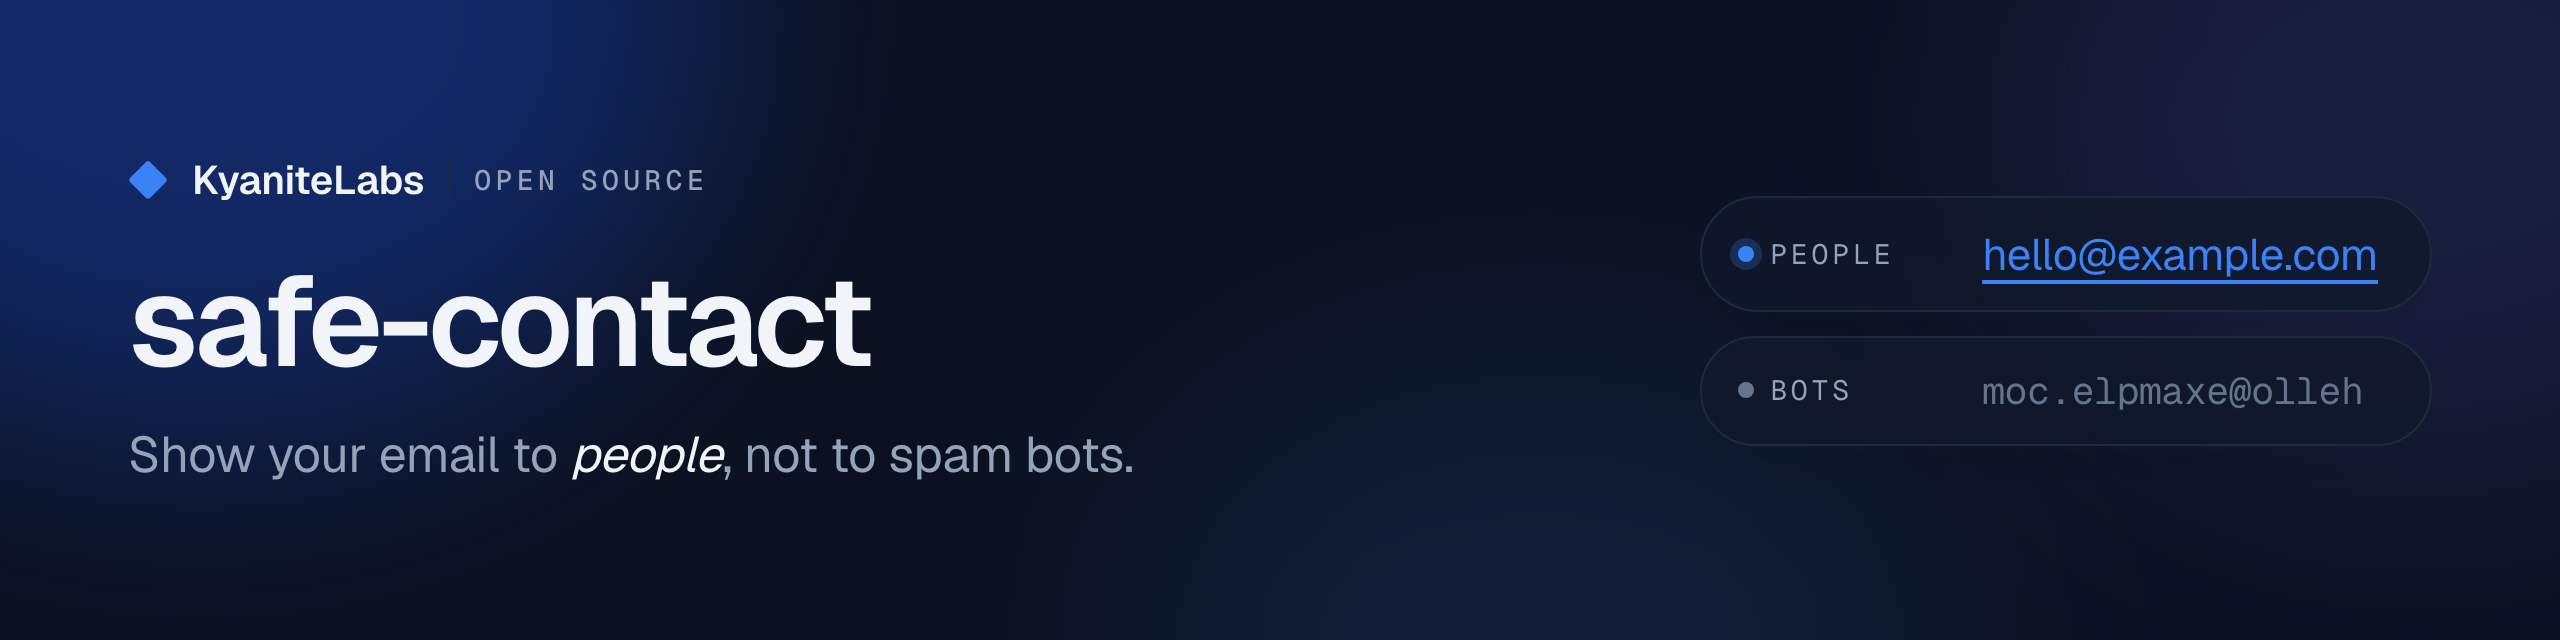
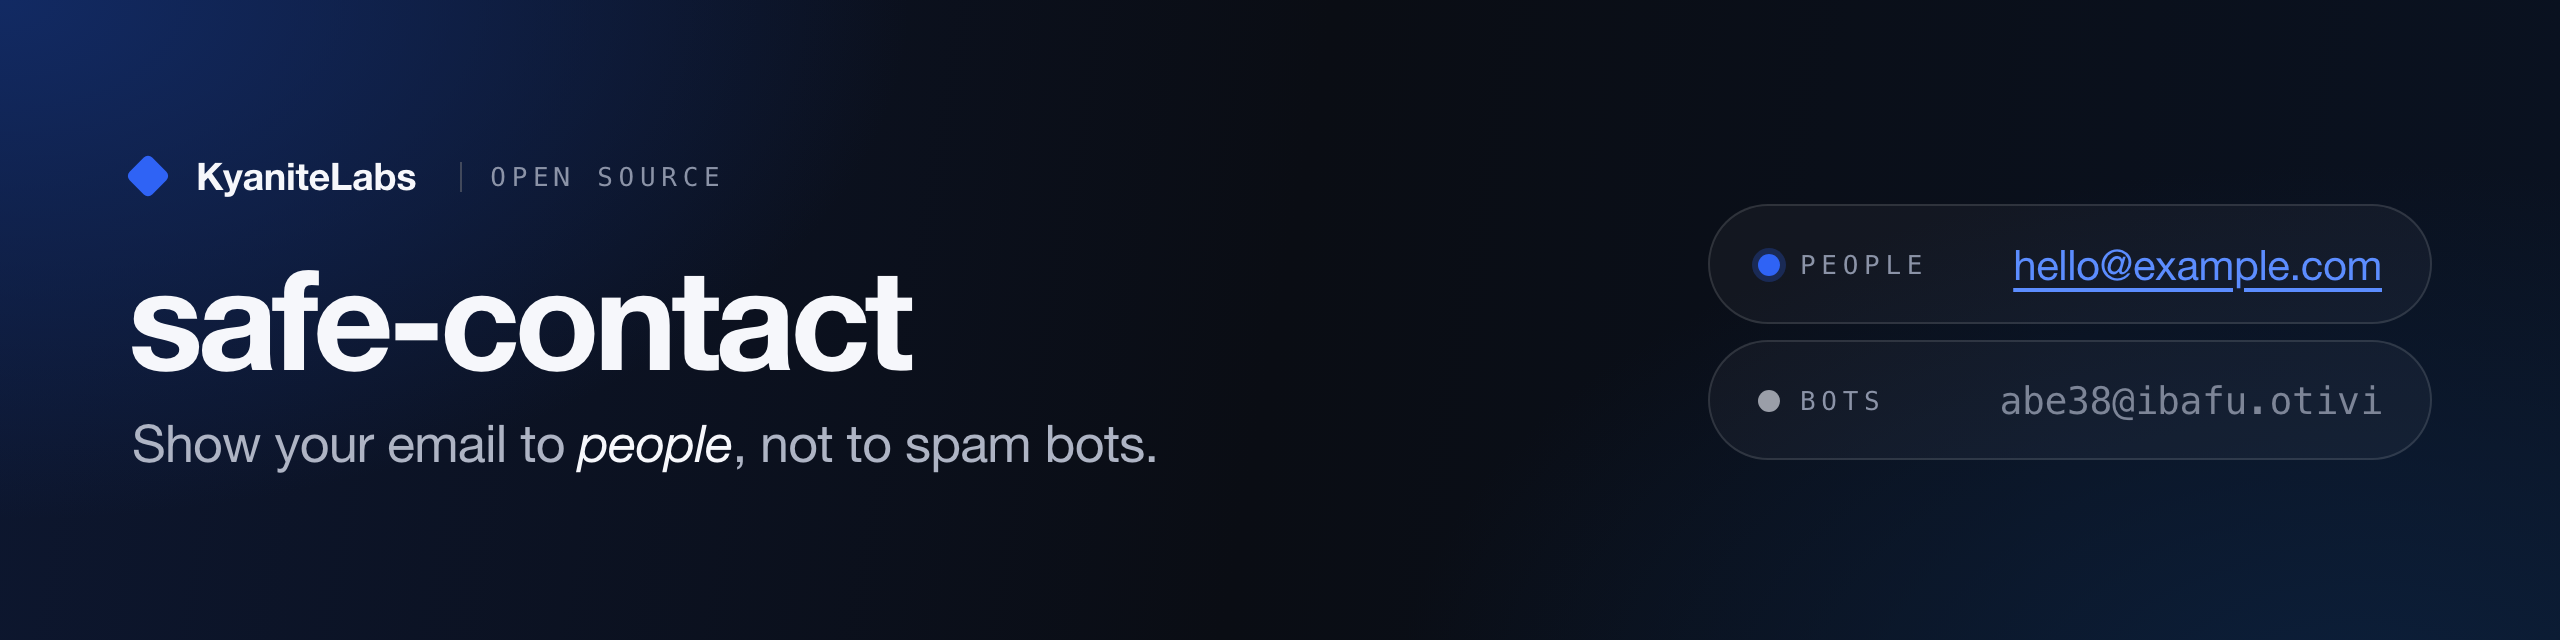
Decoys instead of reversed text: the page shows a made-up address or +0 number until the reveal
- decoy(): random user name, domain and made-up TLD for emails; random digits
  after +0 for phone numbers. Seeded by the contact, so server and client
  render alike; same length as the real text, so nothing moves on reveal.
- render() and <SafeContact> show it in <span aria-hidden>; reveal() replaces
  any aria-hidden child, so 0.1 HTML keeps working with the latest auto.js.
- README, demo page, tests and banner updated.

diff --git a/src/contact.ts b/src/contact.ts
@@ -1,7 +1,8 @@
 // The contact model, shared by every environment: build a Contact with
 // mailto(), tel() or sms(); scramble it with encode() for the page; get it back
-// with decode(). Also hiddenAttributes(), the markup rule both renderers follow,
-// so the HTML string renderer and the React component cannot drift apart.
+// with decode(). Also the two markup rules both renderers follow, so the HTML
+// string renderer and the React component cannot drift apart: hiddenAttributes()
+// and decoy(), the made-up address the page shows until the reveal.
 
 /** What a link shows and where it goes. Build one with mailto(), tel() or sms(). */
 export interface Contact {
@@ -77,8 +78,96 @@ export function decode(data: string): Contact | null {
 }
 
 /** Reverses a string by code point, so emoji and accents survive. */
-export function reverse(text: string): string {
+function reverse(text: string): string {
   return Array.from(text).reverse().join("");
+}
+
+/**
+ * What the page shows in place of the contact until the reveal: a made-up
+ * address or number that reads like one but cannot be delivered. A harvester
+ * that takes it gets junk. For an email it is a random user name (one or two
+ * parts, sometimes digits), a random domain and a made-up top-level domain; for
+ * a phone number, random digits after "+0", a country code that does not exist.
+ *
+ * It is derived from the contact, so the same contact always gets the same
+ * decoy: server and client render alike, and builds are reproducible. It has
+ * the length of the real text, so nothing moves when the link is revealed.
+ */
+export function decoy({ text, href }: Contact): string {
+  const next = random(seed(`${text}\n${href}`));
+  return href.startsWith("mailto:") ? fakeAddress(text, next) : fakeNumber(text, next);
+}
+
+const CONSONANTS = "bcdfghjklmnprstvwz";
+const VOWELS = "aeiou";
+
+type Next = () => number;
+
+const between = (next: Next, min: number, max: number) => min + Math.floor(next() * (max - min + 1));
+const pick = (next: Next, from: string) => from[between(next, 0, from.length - 1)]!;
+const digit = (next: Next) => String(between(next, 0, 9));
+const clamp = (n: number, min: number, max: number) => Math.min(Math.max(n, min), max);
+
+/** Pronounceable: consonants and vowels in turn, e.g. "kovari" or "abeno". */
+function word(length: number, next: Next): string {
+  let vowel = next() < 0.5;
+  let out = "";
+  for (let i = 0; i < length; i++, vowel = !vowel) out += pick(next, vowel ? VOWELS : CONSONANTS);
+  return out;
+}
+
+/** Two words joined by `separator`, each at least `min` letters long, the first at most 8. */
+function pair(length: number, min: number, separator: string, next: Next): string {
+  const first = between(next, min, Math.min(8, length - min - 1));
+  return `${word(first, next)}${separator}${word(length - first - 1, next)}`;
+}
+
+/** e.g. "ren.olav42@sivome.kuzda", as long as the real address. */
+function fakeAddress(address: string, next: Next): string {
+  const at = address.indexOf("@");
+  const user = fakeUser(at < 0 ? address.length : at, next);
+  const domain = fakeDomain(at < 0 ? 0 : address.length - at - 1, next);
+  return `${user}@${domain}`;
+}
+
+function fakeUser(length: number, next: Next): string {
+  length = clamp(length, 2, 40);
+  const digits = length >= 5 && next() < 0.4 ? between(next, 1, 2) : 0;
+  const letters = length - digits;
+  let user = letters >= 9 || (letters >= 6 && next() < 0.5) ? pair(letters, 2, pick(next, "._-"), next) : word(letters, next);
+  for (let i = 0; i < digits; i++) user += digit(next);
+  return user;
+}
+
+/** A name and a top-level domain of 4 to 6 letters: long enough to be nobody's. */
+function fakeDomain(length: number, next: Next): string {
+  length = clamp(length, 8, 60);
+  const tld = between(next, 4, Math.min(6, length - 4));
+  const name = length - tld - 1;
+  return `${name >= 11 || (name >= 8 && next() < 0.5) ? pair(name, 3, "-", next) : word(name, next)}.${word(tld, next)}`;
+}
+
+/** The number as written, every digit random, after "+0": no country code starts with 0. */
+function fakeNumber(number: string, next: Next): string {
+  let first = true;
+  return `+${number.replace(/^\+/, "").replace(/\d/g, () => (first ? ((first = false), "0") : digit(next)))}`;
+}
+
+/** FNV-1a, a 32-bit hash of the text. */
+function seed(text: string): number {
+  let hash = 0x811c9dc5;
+  for (let i = 0; i < text.length; i++) hash = Math.imul(hash ^ text.charCodeAt(i), 0x01000193);
+  return hash >>> 0;
+}
+
+/** mulberry32: numbers in [0, 1) that are the same for the same seed everywhere. */
+function random(state: number): Next {
+  return () => {
+    state = (state + 0x6d2b79f5) | 0;
+    let t = Math.imul(state ^ (state >>> 15), state | 1);
+    t ^= t + Math.imul(t ^ (t >>> 7), t | 61);
+    return ((t ^ (t >>> 14)) >>> 0) / 4294967296;
+  };
 }
 
 /**

diff --git a/test/core.test.ts b/test/core.test.ts
@@ -1,5 +1,6 @@
 import { describe, expect, test } from "vitest";
 import { decode, encode, mailto, render, sms, tel } from "../src/index.js";
+import { decoy } from "../src/contact.js";
 import { blankData, dataOf } from "./helpers.js";
 
 const ADDRESS = "hello@example.com";
@@ -60,28 +61,61 @@ describe("encode and decode", () => {
   });
 });
 
+describe("decoy", () => {
+  // A made-up address that reads like one: user@name.tld, letters, digits and
+  // one of . _ - in the user part, a hyphen at most in the name, a top-level
+  // domain of 4 to 6 letters that is nobody's.
+  const FAKE_ADDRESS = /^[a-z0-9]+(?:[._-][a-z0-9]+)?@[a-z]+(?:-[a-z]+)?\.[a-z]{4,6}$/;
+
+  test("an email decoy looks like an address, is not the real one, and is as long as it", () => {
+    for (const address of [ADDRESS, "a@b.co", "first.last@sub.company-name.co.uk", "jean-pierre_dupont99@universite-paris.fr"]) {
+      const fake = decoy(mailto(address));
+      expect(fake, address).toMatch(FAKE_ADDRESS);
+      expect(fake, address).not.toBe(address);
+      expect(fake.split("@")[0], address).not.toBe(address.split("@")[0]);
+      expect(fake.split("@")[1], address).not.toBe(address.split("@")[1]);
+      if (address.split("@")[1]!.length >= 8) expect(fake.length, address).toBe(address.length);
+    }
+  });
+
+  test("a phone decoy keeps the shape and has random digits after +0, a country code nobody has", () => {
+    expect(decoy(tel("+39 012 345 6789"))).toMatch(/^\+0\d \d{3} \d{3} \d{4}$/);
+    expect(decoy(tel("+39 012 345 6789"))).not.toBe("+39 012 345 6789");
+    expect(decoy(sms("0123 456", "Hi"))).toMatch(/^\+0\d{3} \d{3}$/);
+  });
+
+  test("the same contact always gets the same decoy; different contacts get different ones", () => {
+    expect(decoy(mailto(ADDRESS))).toBe(decoy(mailto(ADDRESS)));
+    expect(decoy(mailto(ADDRESS))).not.toBe(decoy(mailto("hallo@example.com")));
+    expect(decoy(mailto(ADDRESS))).not.toBe(decoy(mailto(ADDRESS, { subject: "Hi" })));
+  });
+});
+
 describe("render", () => {
-  test("no address in the HTML: a placeholder href, the scrambled value, the text backwards", () => {
+  test("no address in the HTML: a placeholder href, the scrambled value, a made-up address", () => {
     const contact = mailto(ADDRESS, { subject: "Hello" });
     const html = render(contact);
     expect(blankData(html)).toBe(`<a href="#" data-safe-contact="" aria-label="Email address, activate to show">` +
-      `<bdo dir="rtl" aria-hidden="true">${backwards(ADDRESS)}</bdo></a>`);
+      `<span aria-hidden="true">${decoy(contact)}</span></a>`);
     expect(decode(dataOf(html))).toEqual(contact);
     expect(html).not.toContain(ADDRESS);
+    expect(html).not.toContain(backwards(ADDRESS));
+    expect(html).not.toContain("example");
     expect(html).not.toContain("mailto:");
   });
 
   test("phone links get the phone hint, or your own", () => {
     expect(render(tel("+39 012 345 6789"))).toContain('aria-label="Phone number, activate to show"');
     expect(render(sms("+39 012"), { hint: "Numero di telefono" })).toContain('aria-label="Numero di telefono"');
-    expect(render(tel("+39 012 345 6789"))).toContain(">9876 543 210 93+</bdo>");
+    expect(render(tel("+39 012 345 6789"))).toMatch(/<span aria-hidden="true">\+0\d \d{3} \d{3} \d{4}<\/span>/);
+    expect(render(tel("+39 012 345 6789"))).not.toMatch(/345 ?6789|0123456789/);
   });
 
-  test("a label replaces the backwards text and the hint; everything is escaped", () => {
+  test("a label replaces the decoy and the hint; everything is escaped", () => {
     const html = render(mailto(ADDRESS), { label: `<b>"Email" us</b>`, className: `x" onclick="y` });
     expect(html).toContain(">&#60;b&#62;&#34;Email&#34; us&#60;/b&#62;</a>");
     expect(html).toMatch(/^<a class="x&#34; onclick=&#34;y" href="#"/);
     expect(html).not.toContain("aria-label");
-    expect(html).not.toContain("<bdo");
+    expect(html).not.toContain("<span");
   });
 });

diff --git a/demo/index.html b/demo/index.html
@@ -26,7 +26,7 @@
       <dt>Text message</dt><dd><!--sms--></dd>
     </dl>
     <p class="status" aria-live="polite">Hidden links on this page: <strong id="count"></strong>. Hover one and watch it drop.</p>
-    <p class="proof">Now open View Source (<kbd>Ctrl</kbd>+<kbd>U</kbd>, or <kbd>⌘</kbd><kbd>⌥</kbd><kbd>U</kbd> on a Mac) and search for <code>&#64;example</code><!-- an entity, so this instruction is not itself a match -->. It isn't there. Neither is the phone number.</p>
+    <p class="proof">Now open View Source (<kbd>Ctrl</kbd>+<kbd>U</kbd>, or <kbd>⌘</kbd><kbd>⌥</kbd><kbd>U</kbd> on a Mac) and search for <code>&#64;example</code><!-- an entity, so this instruction is not itself a match -->. It isn't there. Neither is the phone number. What is there is a made-up address that goes nowhere.</p>
   </section>
 
   <section aria-labelledby="use">
@@ -51,9 +51,9 @@
   <section aria-labelledby="how">
     <h2 id="how">How it works</h2>
     <ol>
-      <li>The address is written backwards inside <code>&lt;bdo dir="rtl"&gt;</code>. The browser draws it the right way round, so people read it normally, but the page text is backwards.</li>
+      <li>The page holds a decoy in place of the address: a made-up user name, domain and top-level domain that reads like an address but cannot be delivered. For a phone number it is random digits after <code>+0</code>, a country code that does not exist. A bot that harvests the page gets junk.</li>
       <li>The real link is kept scrambled in a <code>data-safe-contact</code> attribute. Its <code>href</code> is just <code>#</code>: no <code>mailto:</code> link for a bot to follow, but it looks and behaves like any other link.</li>
-      <li>When someone hovers, focuses, taps or clicks, it becomes a real link, just before the click lands. One click opens the mail app.</li>
+      <li>When someone hovers, focuses, taps or clicks, the decoy becomes the real address and the link a real one, just before the click lands. One click opens the mail app.</li>
     </ol>
     <p>Screen readers hear “Email address, activate to show” until the link is focused. The browser script is under 1&nbsp;KB and needs no CSS.</p>
     <p class="note">No trick stops a bot that is built to beat it. Most harvesters just read the HTML, some run the page in a browser, and very few hover over links. This stops all but the last kind.</p>

diff --git a/e2e/safe-contact.spec.ts b/e2e/safe-contact.spec.ts
@@ -18,25 +18,19 @@ for (const path of ["/", "/react.html"]) {
       const scripts = await page.locator("script[src]").evaluateAll((els) => els.map((el) => (el as HTMLScriptElement).src));
       const sources = [html, ...(await Promise.all(scripts.map(async (src) => (await request.get(src)).text())))];
       const rendered = [await page.content(), await page.locator("body").innerText()];
-      // The backwards text (moc.elpmaxe@olleh) is meant to be there.
+      // The decoys (a made-up address and a +0 number) are meant to be there.
       for (const text of [...sources, ...rendered]) {
         expect(text).not.toMatch(/example\.com|mailto:hello|tel:\+39|sms:\+39/);
         expect(text).not.toMatch(/345 ?6789|0123456789/);
       }
     });
 
-    test("the backwards text is drawn the right way round", async ({ page }) => {
-      const positions = await page.locator("main dd bdo").first().evaluate((bdo) => {
-        const text = bdo.firstChild!;
-        return Array.from({ length: text.textContent!.length }, (_, i) => {
-          const range = document.createRange();
-          range.setStart(text, i);
-          range.setEnd(text, i + 1);
-          return range.getBoundingClientRect().left;
-        });
-      });
-      // The last character in the page text is drawn first, on the left.
-      for (let i = 1; i < positions.length; i++) expect(positions[i]).toBeLessThan(positions[i - 1]!);
+    test("until the reveal, the links show a made-up address and a made-up number", async ({ page }) => {
+      const email = await hiddenLinks(page).first().innerText();
+      expect(email).toMatch(/^[a-z0-9._-]+@[a-z-]+\.[a-z]{4,6}$/);
+      expect(email).not.toBe(EMAIL);
+      expect(email.length).toBe(EMAIL.length);
+      expect(await hiddenLinks(page).nth(2).innerText()).toMatch(/^\+0\d \d{3} \d{3} \d{4}$/);
     });
 
     test("hover reveals a real mailto: link with the address", async ({ page }) => {

diff --git a/src/html.ts b/src/html.ts
@@ -1,7 +1,7 @@
 // A hidden link as an HTML string, for servers, static-site builds, templates
 // and the CLI. The browser side is dom.ts (or the drop-in auto.js).
 
-import { encode, hiddenAttributes, reverse, type Contact } from "./contact.js";
+import { decoy, encode, hiddenAttributes, type Contact } from "./contact.js";
 
 export interface RenderOptions {
   /** Text to show instead of the address, e.g. "Email us". Escaped. */
@@ -15,9 +15,8 @@ export interface RenderOptions {
 const escapeHtml = (text: string) => text.replace(/[&<>"']/g, (c) => `&#${c.charCodeAt(0)};`);
 
 /**
- * The HTML of a hidden link: `render(mailto("hello@example.com"))`. The
- * address is written backwards inside <bdo dir="rtl">, which draws it the right
- * way round.
+ * The HTML of a hidden link: `render(mailto("hello@example.com"))`. In place
+ * of the address it shows a made-up one (see decoy()) until the reveal.
  */
 export function render(contact: Contact, { label, hint, className }: RenderOptions = {}): string {
   const attributes = { class: className || undefined, ...hiddenAttributes(contact, encode(contact), { hint, labelled: label !== undefined }) };
@@ -25,7 +24,7 @@ export function render(contact: Contact, { label, hint, className }: RenderOptio
     .flatMap(([name, value]) => (value === undefined ? [] : [`${name}="${escapeHtml(value)}"`]))
     .join(" ");
   const shown = label === undefined
-    ? `<bdo dir="rtl" aria-hidden="true">${escapeHtml(reverse(contact.text))}</bdo>`
+    ? `<span aria-hidden="true">${escapeHtml(decoy(contact))}</span>`
     : escapeHtml(label);
   return `<a ${html}>${shown}</a>`;
 }

diff --git a/src/safe-contact.tsx b/src/safe-contact.tsx
@@ -8,7 +8,7 @@
 
 import { useMemo, useState, type AnchorHTMLAttributes, type ReactNode, type SyntheticEvent } from "react";
 import { flushSync } from "react-dom";
-import { decode, hiddenAttributes, reverse } from "./contact.js";
+import { decode, decoy, hiddenAttributes } from "./contact.js";
 
 export interface SafeContactProps extends Omit<AnchorHTMLAttributes<HTMLAnchorElement>, "href"> {
   /** The scrambled contact: `encode(mailto("…"))`, or `npx safe-contact <address> --data`. */
@@ -40,7 +40,7 @@ export function SafeContact({ data, children, hint, onPointerEnter, onPointerDow
       // A click with nothing before it (a screen reader, a script): reveal now,
       // before the browser reads the href to follow.
       onClick={chain(onClick, () => shown || flushSync(show))}>
-      {children ?? (shown ? contact.text : <bdo dir="rtl" aria-hidden="true">{reverse(contact.text)}</bdo>)}
+      {children ?? (shown ? contact.text : <span aria-hidden="true">{decoy(contact)}</span>)}
     </a>
   );
 }

diff --git a/test/readme.test.tsx b/test/readme.test.tsx
@@ -3,7 +3,15 @@ import { expect, test } from "vitest";
 import { renderToString } from "react-dom/server";
 import { Email, Phone, Sms } from "../src/react.js";
 import { decode, encode, mailto, render, sms, tel } from "../src/index.js";
+import { decoy } from "../src/contact.js";
 import { dataOf } from "./helpers.js";
+
+test("what bots see: the HTML at the top of the README", () => {
+  expect(render(mailto("you@yoursite.com"))).toBe(
+    `<a href="#" data-safe-contact="bW9jLmV0aXNydW95QHVveTpvdGxpYW0KbW9jLmV0aXNydW95QHVveQ==" aria-label="Email address, activate to show">` +
+    `<span aria-hidden="true">uho@puweher.mifi</span></a>`);
+  expect(decoy(mailto("you@yoursite.com"))).toBe("uho@puweher.mifi");
+});
 
 test("React with server components", () => {
   function ContactPage() {

diff --git a/src/dom.ts b/src/dom.ts
@@ -12,7 +12,8 @@ export function reveal(link: Element): string | null {
   if (!contact) return null;
   link.removeAttribute(ATTRIBUTE);
   link.removeAttribute("aria-label");
-  link.querySelector(":scope > bdo[dir=rtl]")?.replaceWith(contact.text);
+  // The decoy; or, in HTML made by 0.1, the address written backwards.
+  link.querySelector(":scope > [aria-hidden]")?.replaceWith(contact.text);
   link.setAttribute("href", contact.href);
   return contact.href;
 }

diff --git a/README.md b/README.md
@@ -7,15 +7,15 @@
 
 Show your email address and phone number to people, not to spam bots.
 
-Bots scrape web pages for addresses and sell them to spammers. `safe-contact` keeps the address out of your page until a person points at it, focuses it or taps it. It looks and works like a normal link, and one click opens the mail app.
+Bots scrape web pages for addresses and sell them to spammers. `safe-contact` keeps the address out of your page until a person points at it, focuses it or taps it. In its place the page holds a made-up address that cannot be delivered, so a bot that takes it gets junk. The link looks and works like a normal link, and one click opens the mail app.
 
 **[Live demo](https://kyanitehq.github.io/safe-contact/)** · 0.6 KB browser script · no CSS · works with a strict Content Security Policy · React, plain HTML or a CLI
 
 ```html
-<!-- What bots see, in the HTML and in the page after scripts run: -->
-<a href="#" data-safe-contact="bW9jLmV0aXNy…" aria-label="Email address, activate to show"><bdo dir="rtl" aria-hidden="true">moc.etisruoy@uoy</bdo></a>
+<!-- What bots see, in the HTML and in the page after scripts run: a made-up address -->
+<a href="#" data-safe-contact="bW9jLmV0aXNy…" aria-label="Email address, activate to show"><span aria-hidden="true">uho@puweher.mifi</span></a>
 
-<!-- What people see: you@yoursite.com. After they hover it: -->
+<!-- What people see after they hover, focus or tap it: -->
 <a href="mailto:you@yoursite.com">you@yoursite.com</a>
 ```
 
@@ -126,17 +126,19 @@ These matter more than which setup you pick. They are the usual mistakes:
 
 ## How it works
 
-1. The address is written backwards inside `<bdo dir="rtl">`, which the browser draws the right way round. People read it normally; the page text is backwards, so pattern-matching bots find no address.
+1. The page holds a decoy in place of the address: a made-up user name, domain and top-level domain (`uho@puweher.mifi`) that reads like an address but cannot be delivered. For a phone number it is random digits after `+0`, a country code that does not exist. A bot that harvests the page gets junk; nothing in the page gives the real address away.
 2. The real link is scrambled in the `data-safe-contact` attribute (the address and link, reversed, then base64). The `href` is `#`, so there's no `mailto:` link to find, yet browsers and your CSS treat it as a normal link.
-3. When someone hovers, focuses, taps or clicks, it becomes a real `mailto:`, `tel:` or `sms:` link just before the click lands. Copying the text copies the real address.
+3. When someone hovers, focuses, taps or clicks, the decoy becomes the real address and the link a real `mailto:`, `tel:` or `sms:` link, just before the click lands. Copying the text copies the real address.
+
+The decoy is derived from the address, so the same address always gets the same decoy (server and client render alike, builds stay reproducible), and it is as long as the real text, so nothing moves on reveal. Until someone reaches for the link they see the decoy, so people who only read, print or screenshot the page do not see the address.
 
 **Accessibility.** Screen readers hear "Email address, activate to show" or "Phone number, activate to show" (set your own with `hint`, e.g. for other languages). Keyboard users can tab to the link; focusing it reveals it.
 
 **Styling.** Hidden and revealed links are both `<a href>`, so your link styles apply to both. Target hidden ones with `a[data-safe-contact]`.
 
-**Without JavaScript** the address is still shown correctly; clicking it only jumps to the top of the page.
+**Without JavaScript** the decoy stays, and clicking it only jumps to the top of the page.
 
-**Limits.** No trick stops a bot built to beat it. Most harvesters read raw HTML; some run the page in a headless browser; very few hover over every link. This stops all but the last kind. It hides addresses from harvesters. It does not filter spam or hide an address that is already public elsewhere.
+**Limits.** No trick stops a bot built to beat it. Most harvesters read raw HTML; some run the page in a headless browser; very few hover over every link. This stops all but the last kind, and the first two kinds take home a decoy. It hides addresses from harvesters. It does not filter spam or hide an address that is already public elsewhere.
 
 ## API
 
